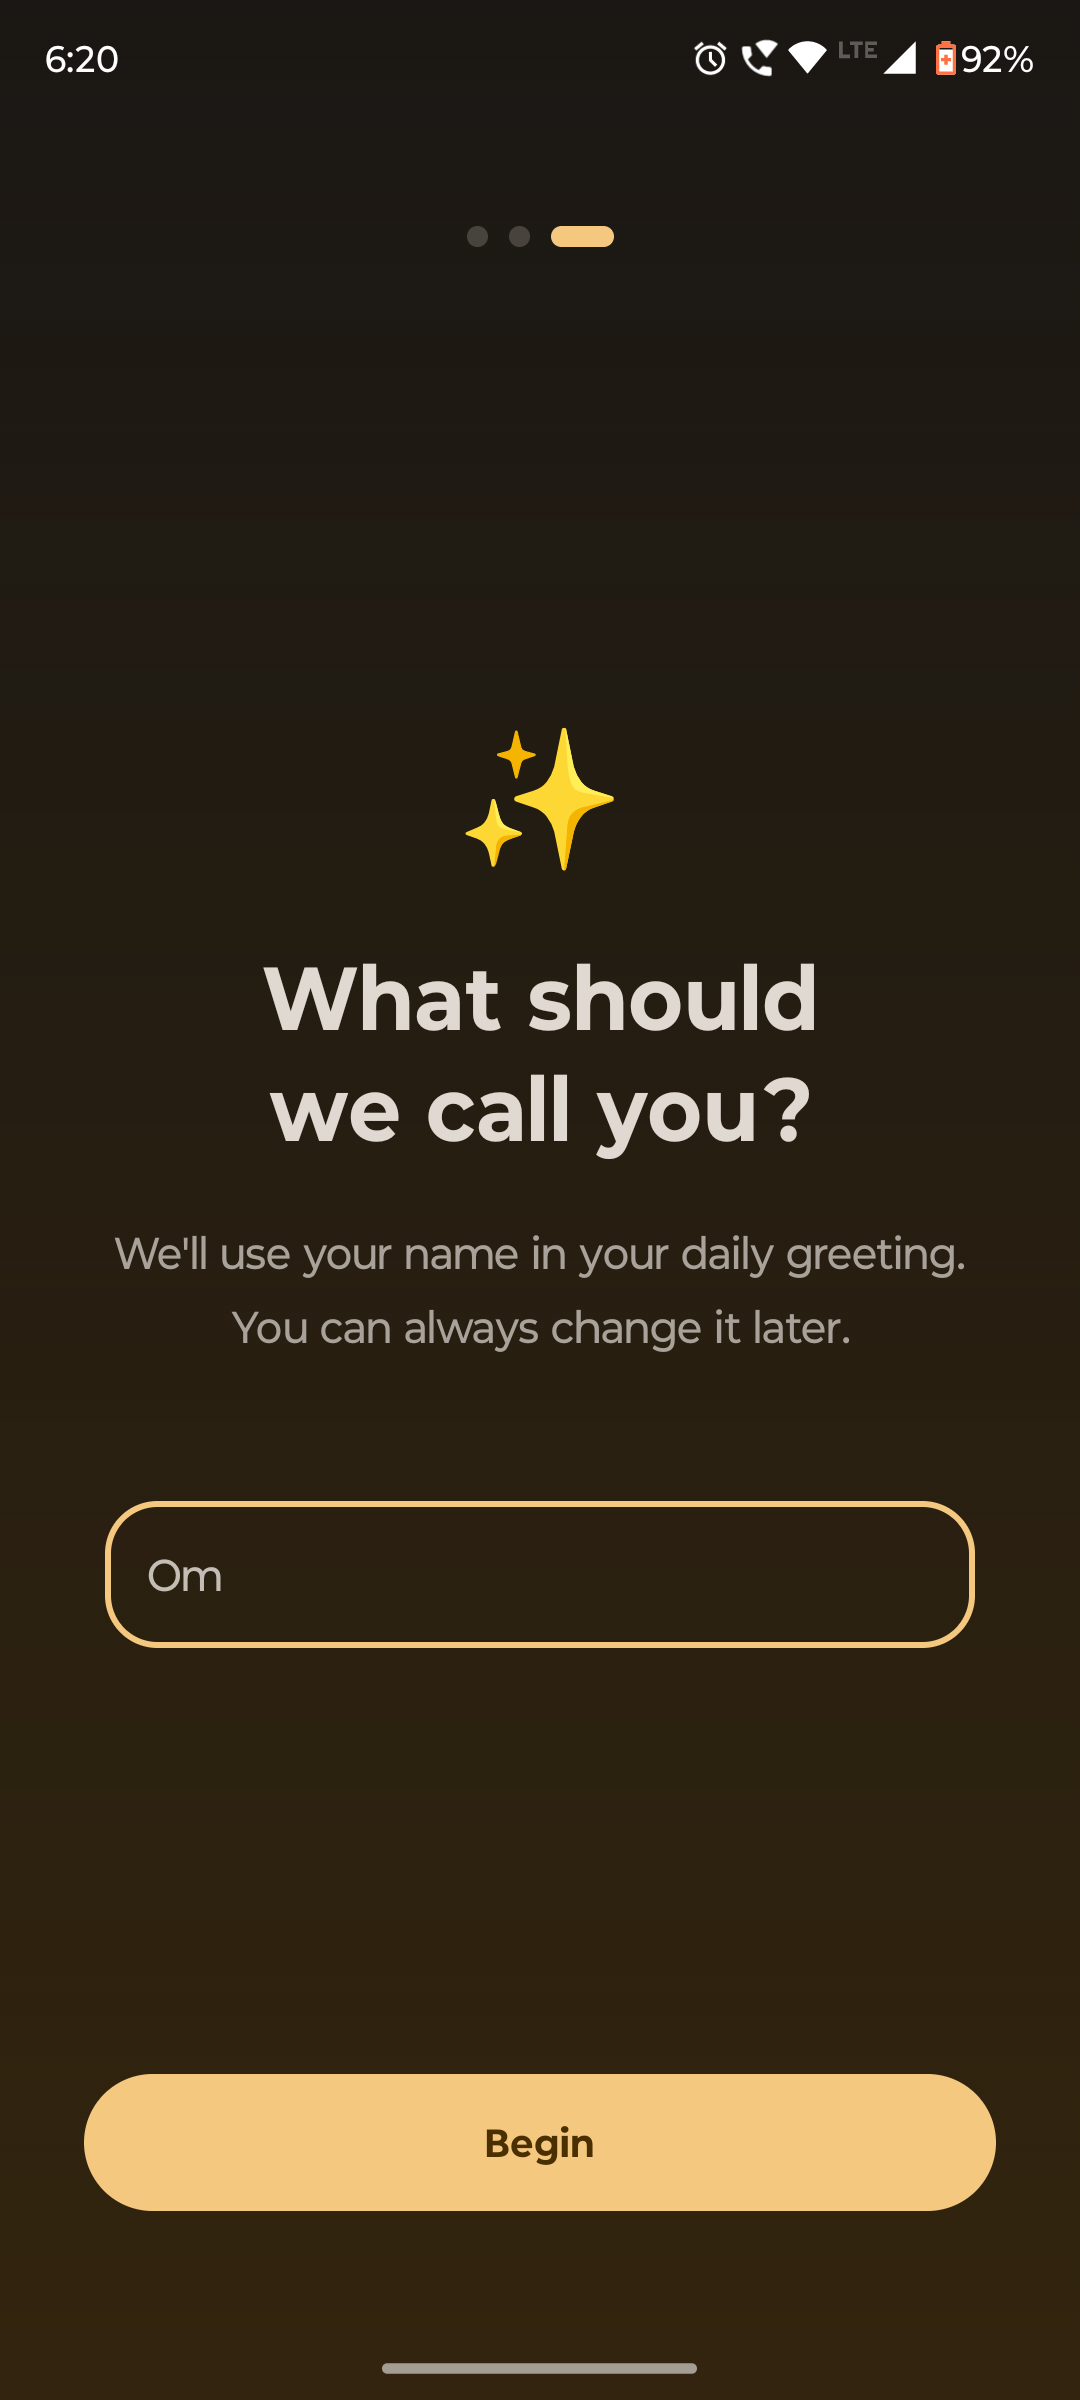
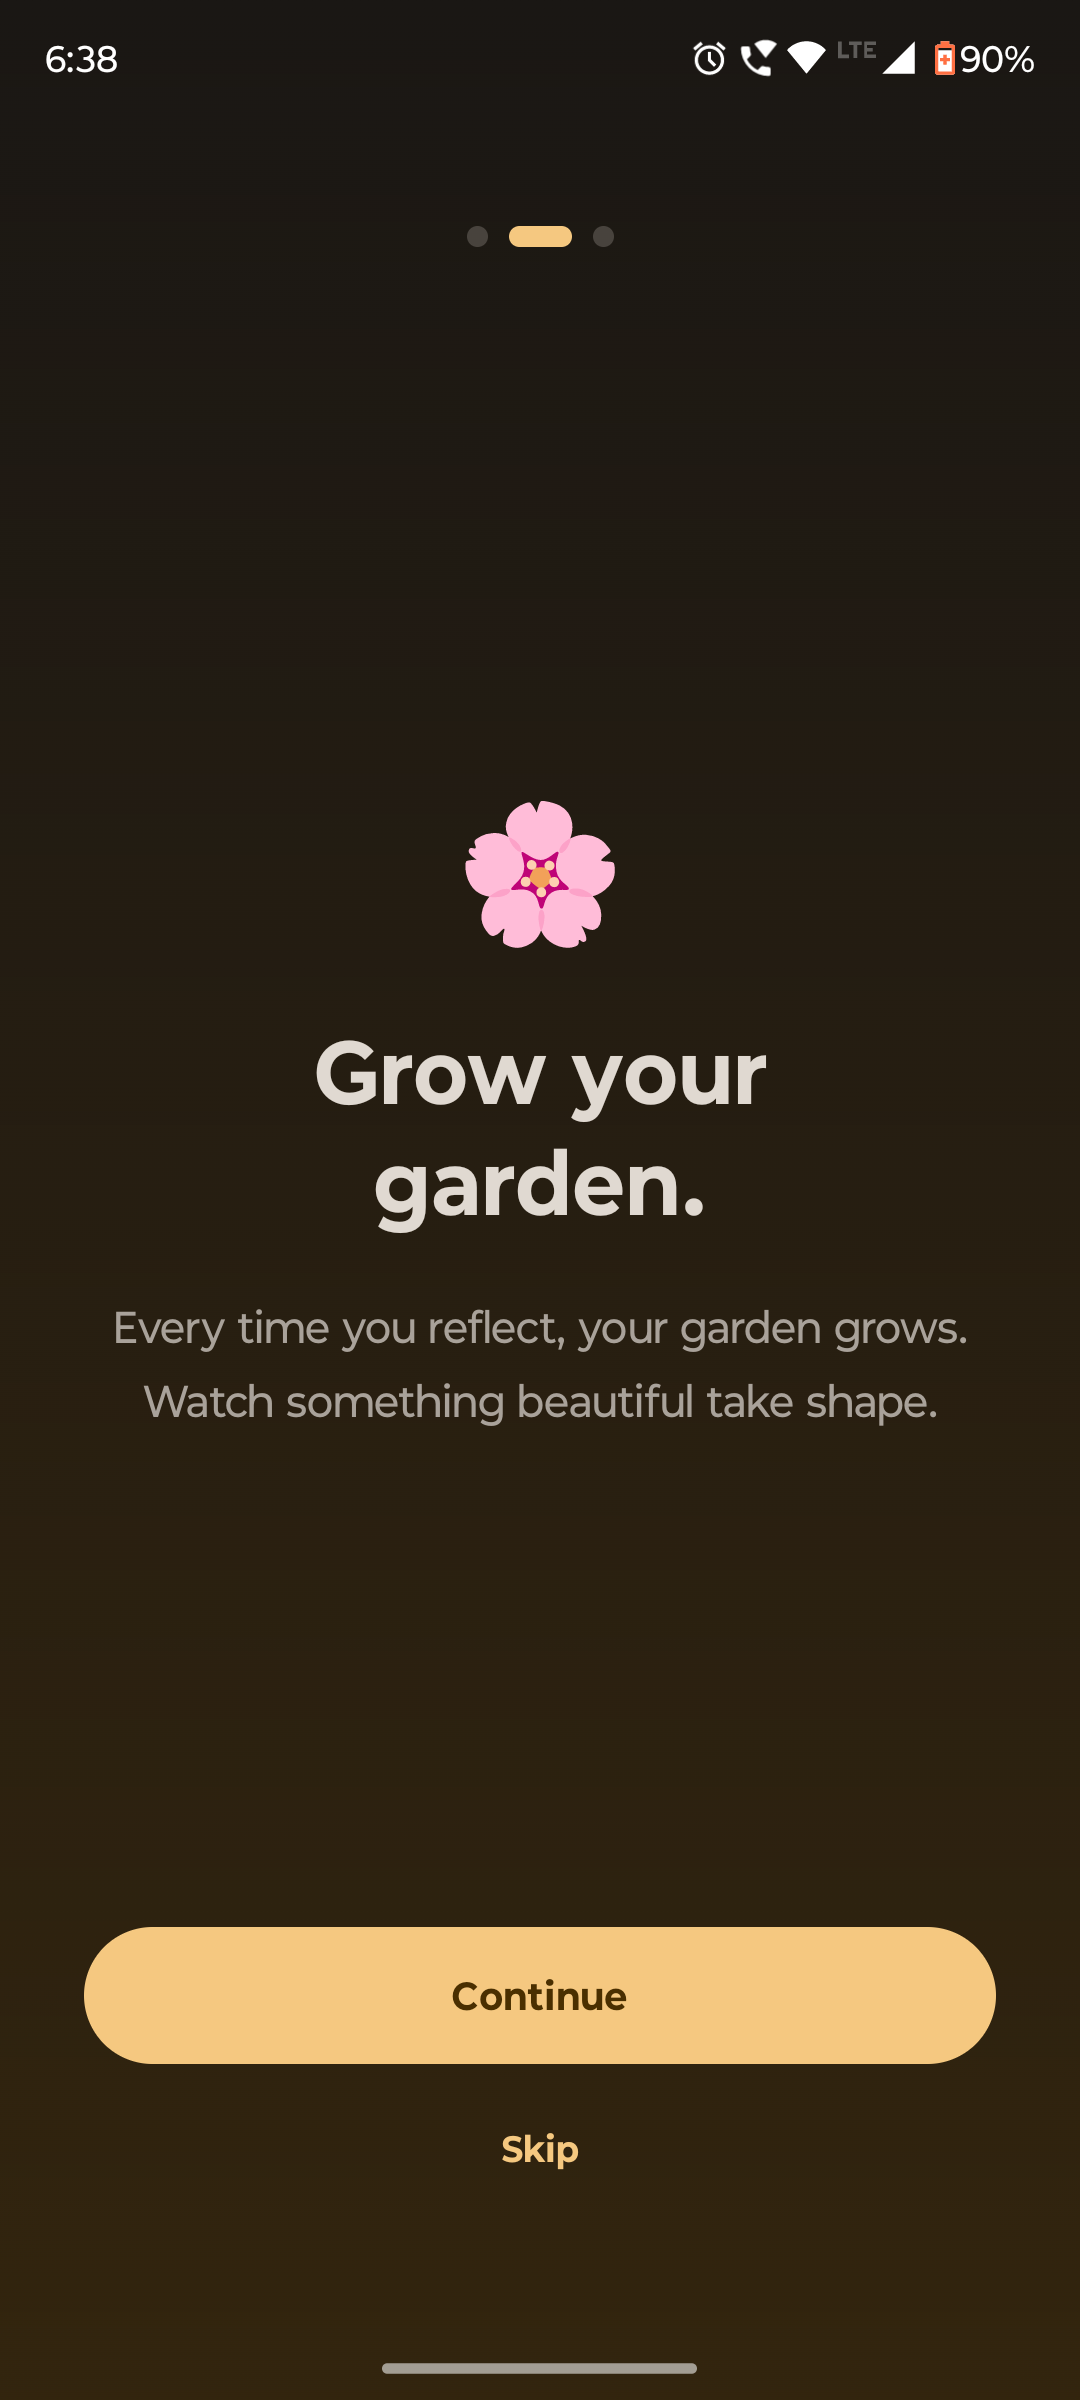
Images

diff --git a/README.md b/README.md
@@ -27,13 +27,17 @@ Bloom is offline-first, powered by a local Room database, and enriched with Groq
 
 ## Screenshots
 
-| Splash | Onboarding 1 | Onboarding 2 | Onboarding 3 | Home |
-|--------|--------------|--------------|--------------|------|
-| ![](screenshots/splash.png) | ![](screenshots/onboarding1.png) | ![](screenshots/onboarding2.png) | ![](screenshots/onboarding3.png) | ![](screenshots/home.png) |
-
-| Journal | AI Reflection | Garden | Insights | Settings |
-|---------|---------------|--------|----------|----------|
-| ![](screenshots/journal.png) | ![](screenshots/ai-reflection.png) | ![](screenshots/garden.png) | ![](screenshots/insights.png) | ![](screenshots/settings.png) |
+| Splash | Onboarding 1 |
+|--------|--------------|
+| ![](screenshots/splash.png) | ![](screenshots/onboarding1.png) |
+| **Onboarding 2** | **Onboarding 3** |
+| ![](screenshots/onboarding2.png) | ![](screenshots/onboarding3.png) |
+| **Home** | **Journal** |
+| ![](screenshots/home.png) | ![](screenshots/journal.png) |
+| **AI Reflection** | **Garden** |
+| ![](screenshots/ai-reflection.png) | ![](screenshots/garden.png) |
+| **Insights** | **Settings** |
+| ![](screenshots/insights.png) | ![](screenshots/settings.png) |
 
 ---
 